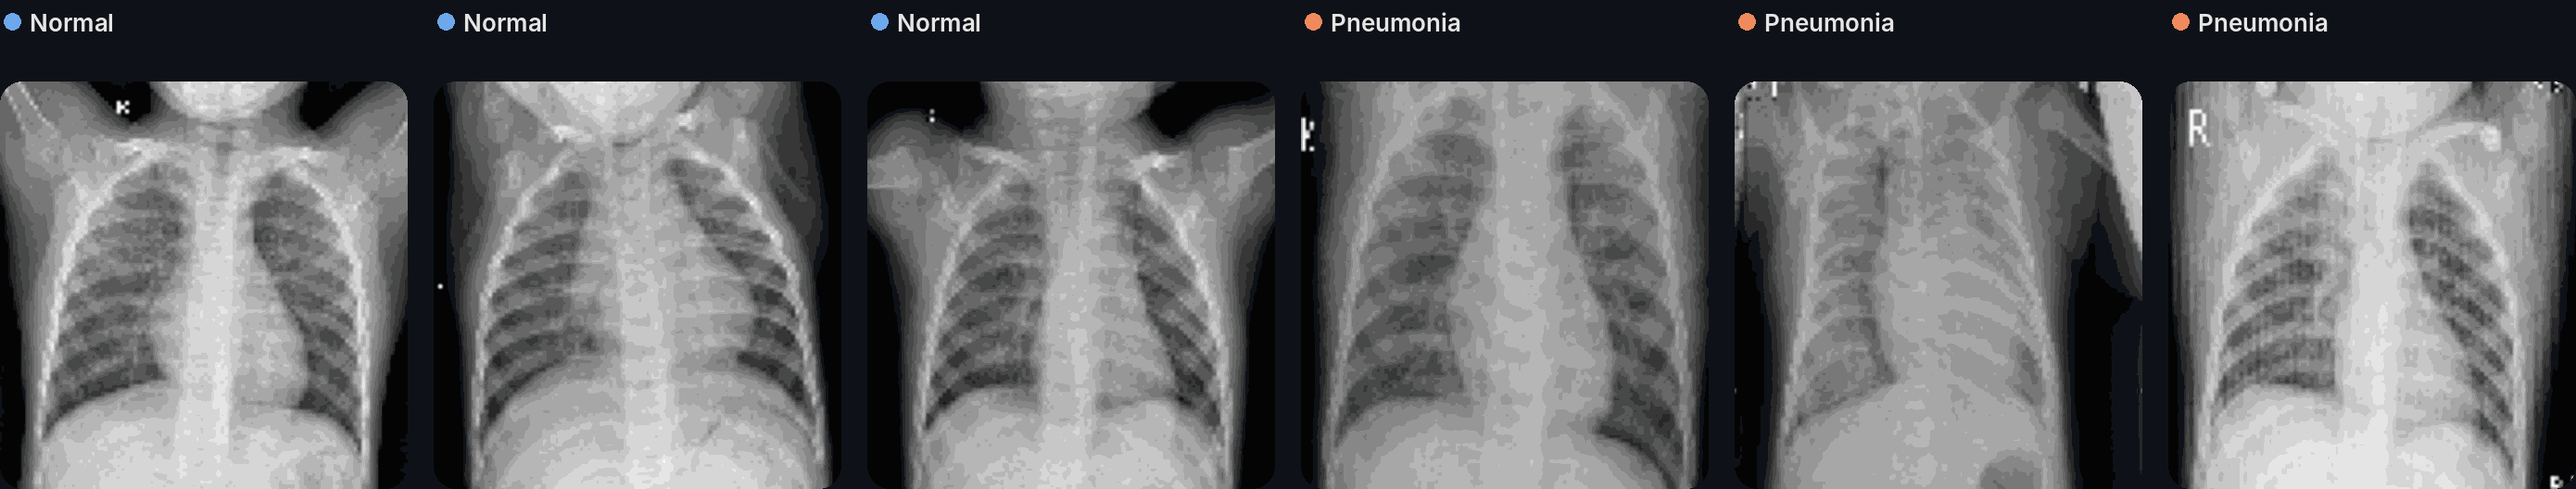
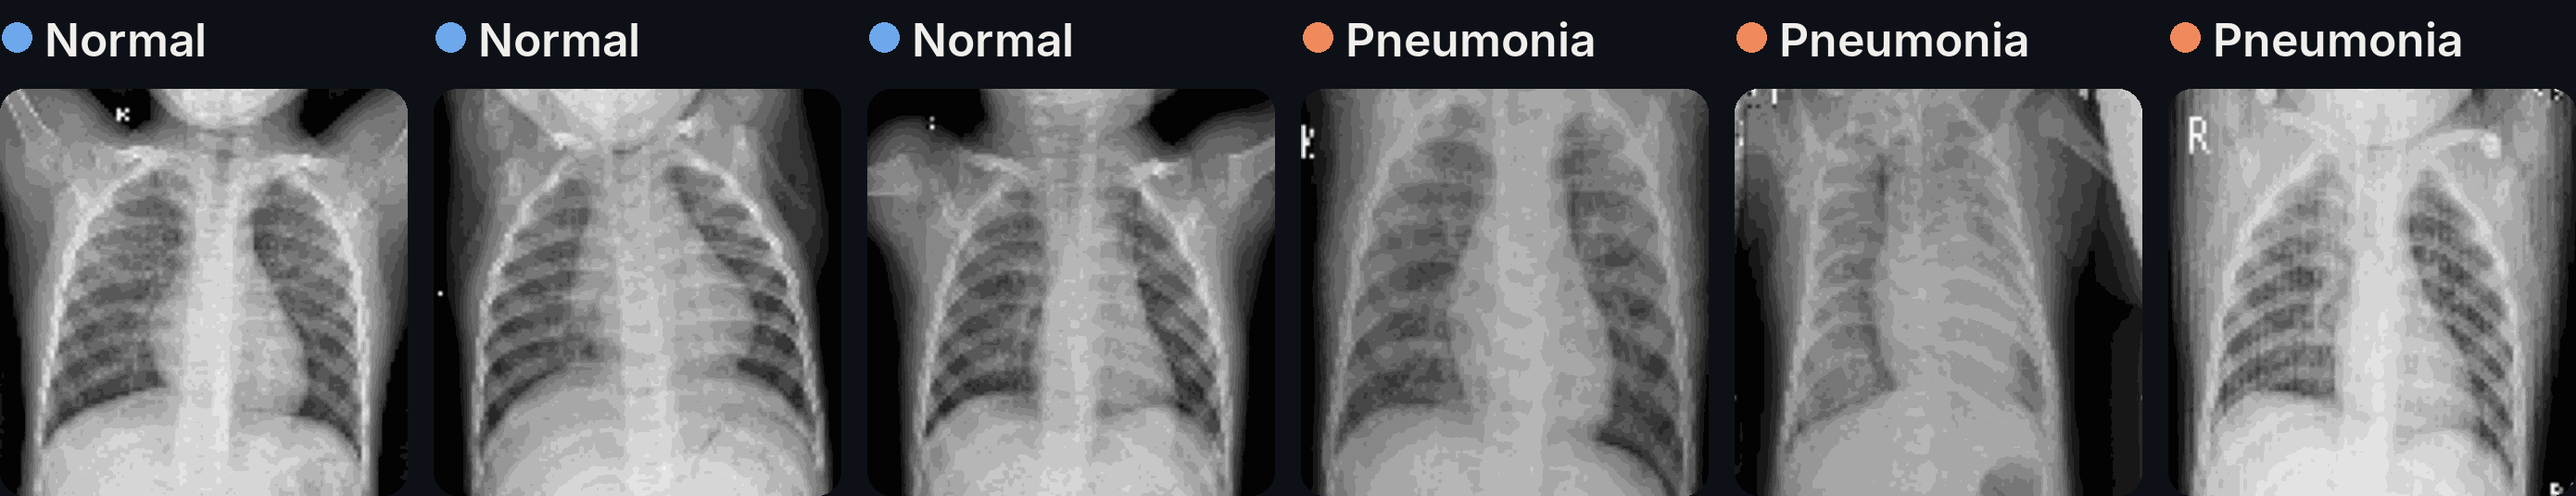
README: fix math spacing, larger sample labels, shorter tree comment
Claude-Session: https://claude.ai/code/session_01EkA8y6VCcMDZPzYFjbyZ4h

diff --git a/README.md b/README.md
@@ -169,7 +169,7 @@ sequenceDiagram
 The server weights each hospital by how many training images it has:
 
 $$
-W_{\text{global}} \;=\; \sum_{k=1}^{3} \frac{n_k}{N}\, W_k \qquad\text{with}\qquad N = \sum_{k=1}^{3} n_k
+W_{\text{global}} = \sum_{k=1}^{3} \frac{n_k}{N} W_k \qquad \text{with} \qquad N = \sum_{k=1}^{3} n_k
 $$
 
 Here $n_1 = 1739$, $n_2 = 1739$ and $n_3 = 1738$ training images.
@@ -340,7 +340,7 @@ The repo also has a [dev container](.devcontainer/devcontainer.json). GitHub Cod
 
 ```text
 .
-├── main.ipynb                # full pipeline: split → local training → FedAvg rounds → evaluation
+├── main.ipynb                # split → local training → FedAvg → evaluation
 ├── app.py                    # Streamlit demo for the global model
 ├── requirements.txt
 ├── assets/                   # charts and diagrams in this README
